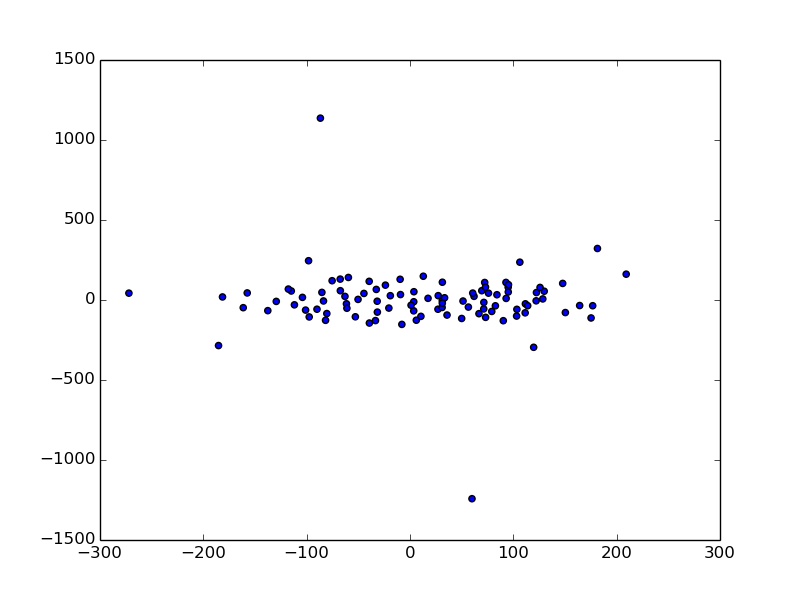
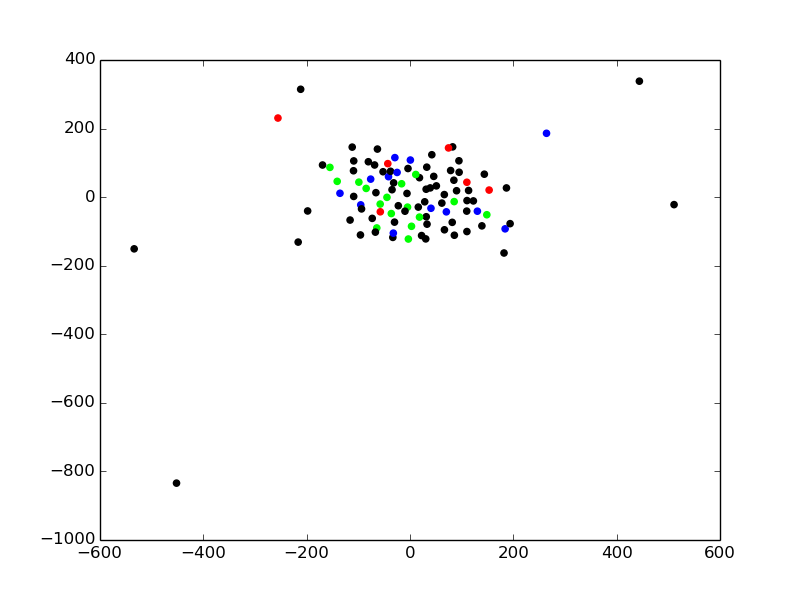
color in plots

diff --git a/train_model.py b/train_model.py
@@ -386,11 +386,11 @@ def feature_extraction():
         f1 = ts.fit_transform(fc1)
         ff = ts.fit_transform(flatten)
         
-        plot1 = plt.scatter(ff[:,0],ff[:,1])
+        plot1 = plt.scatter(ff[:,0],ff[:,1], color=labels)
         plt.savefig("convflatten.png")
-        plot2 = plt.scatter(f1[:,0],f1[:,1])
+        plot2 = plt.scatter(f1[:,0],f1[:,1], color=labels)
         plt.savefig("convfc1.png")
-        plot3 = plt.scatter(f2[:,0], f2[:,1])
+        plot3 = plt.scatter(f2[:,0], f2[:,1], color=labels)
         plt.savefig("convfc2.png")
 
         #1vsrest
